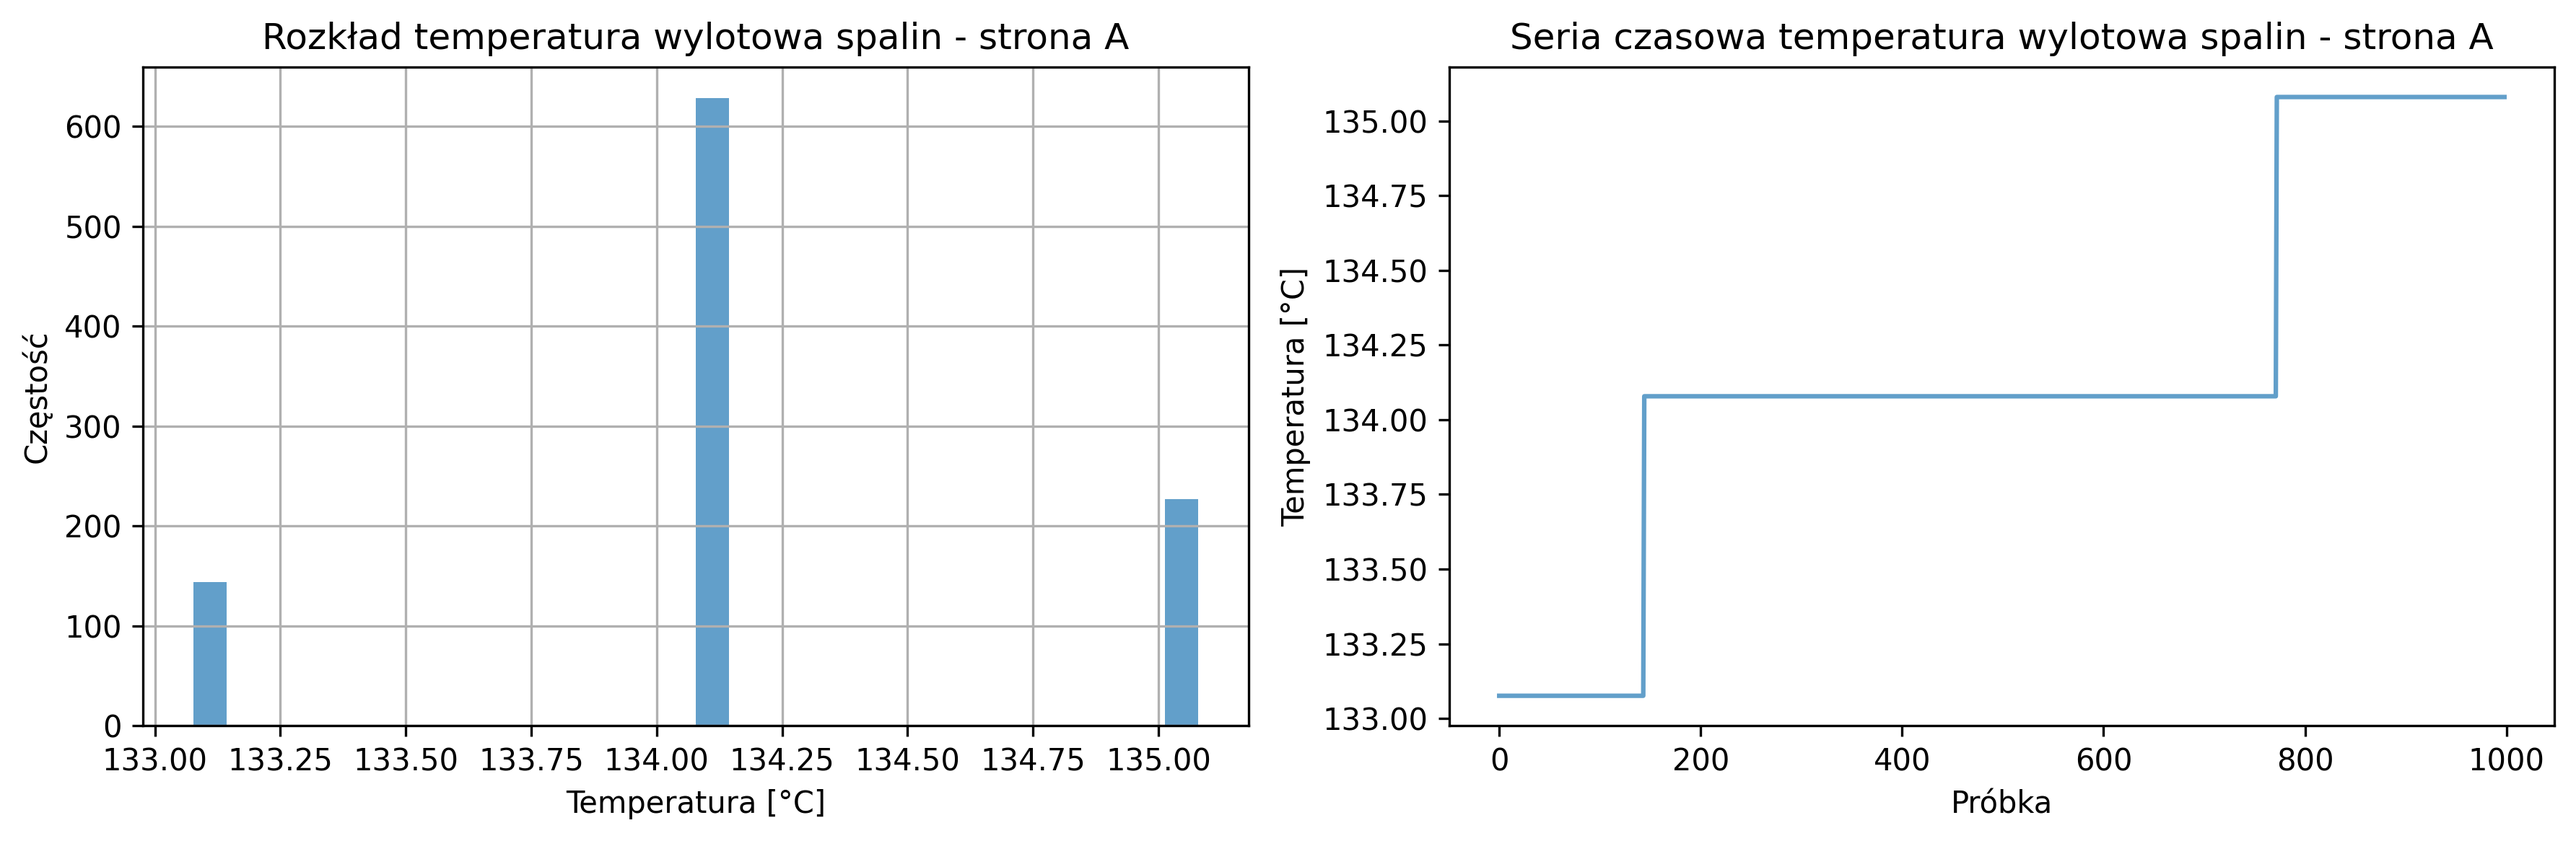
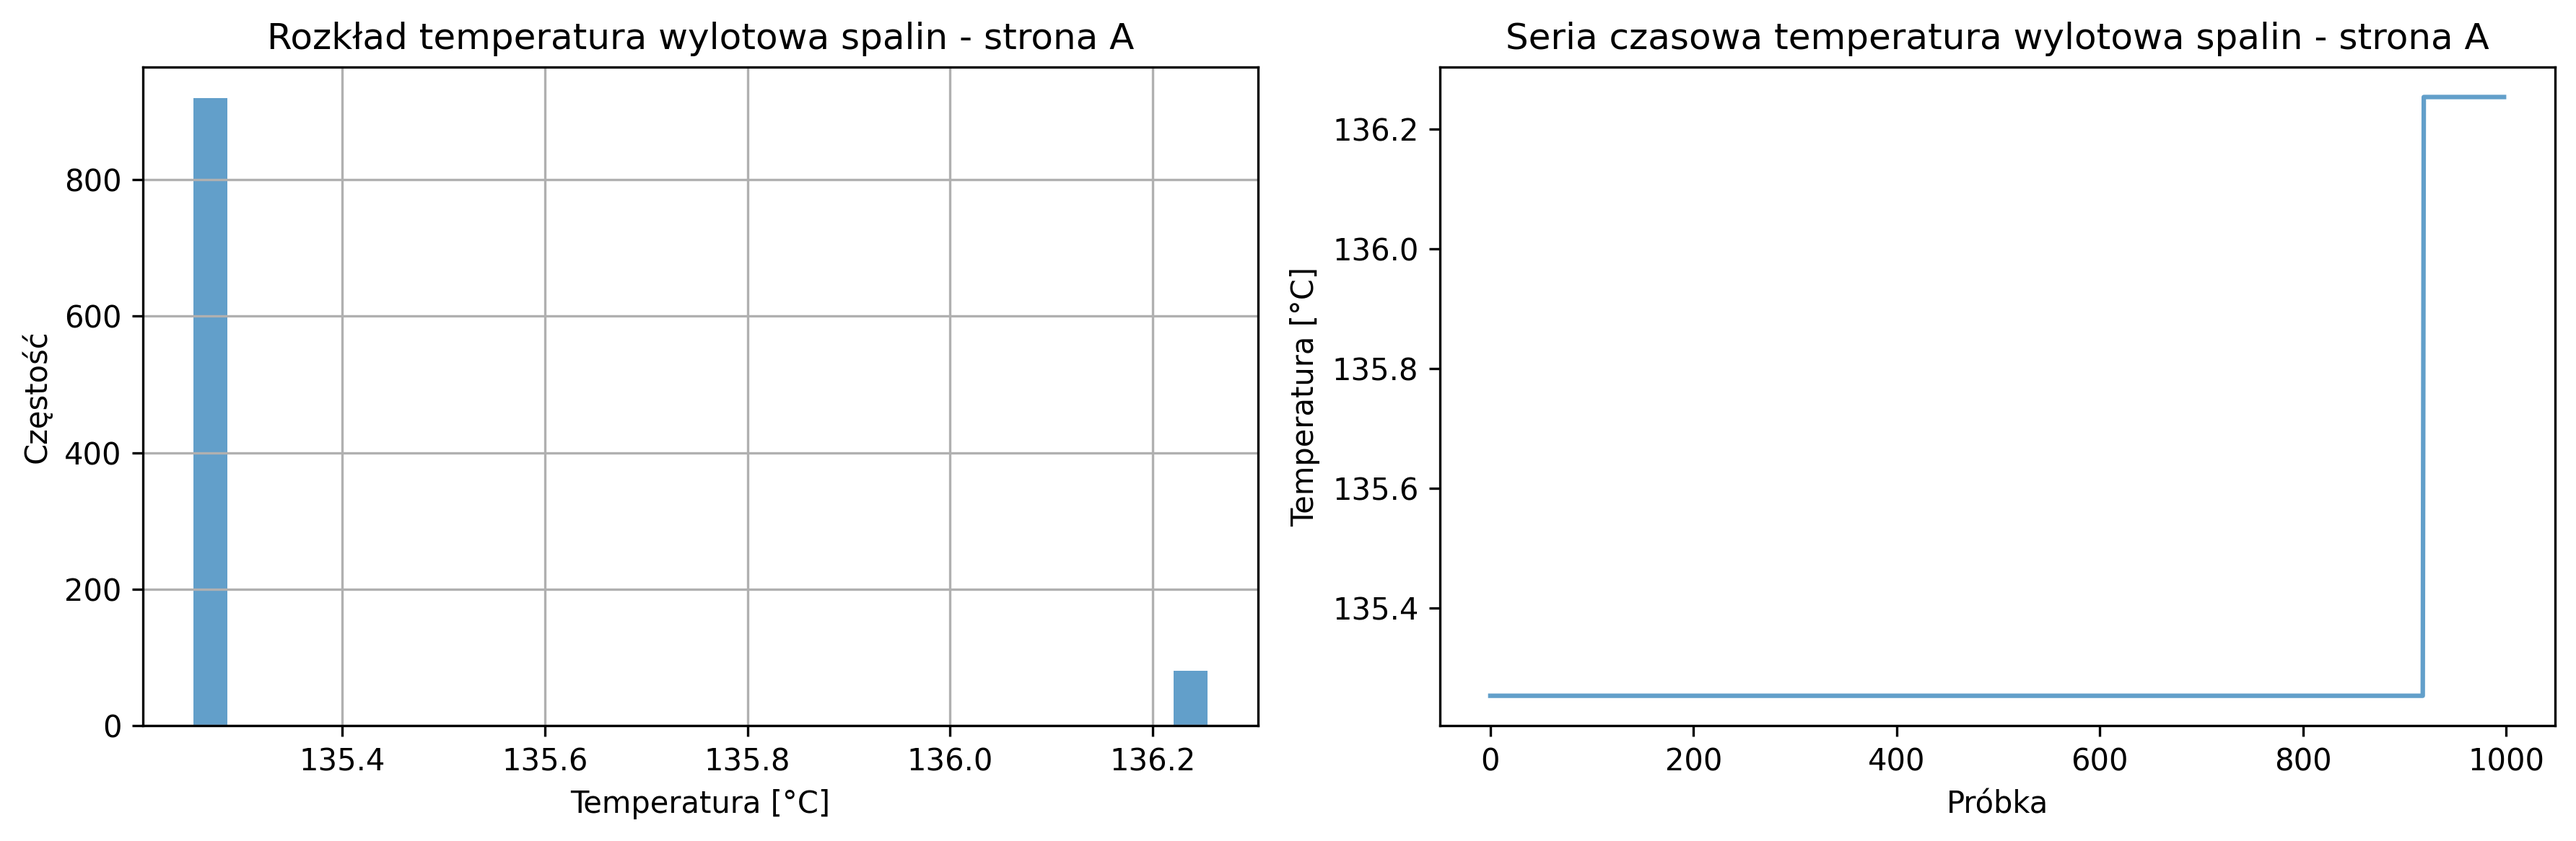
correlations sorted for 4 days

diff --git a/src/main.py b/src/main.py
@@ -111,7 +111,7 @@ def correlation_analysis_sorted_plots(df: pd.DataFrame, target_columns: List[str
 def main():
     """Główna funkcja analizy."""
     file_path = os.path.join('data', 'K-1_MI.xlsx')
-    sheet_name = "d5"  # Zmień na odpowiedni arkusz
+    sheet_name = "d2"  # Zmień na odpowiedni arkusz
     
     # Zmienne docelowe (temperatura spalin)
     target_columns = [
